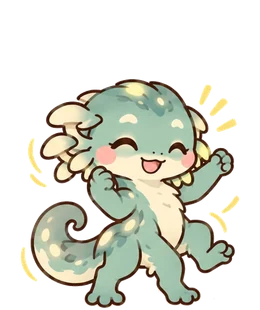
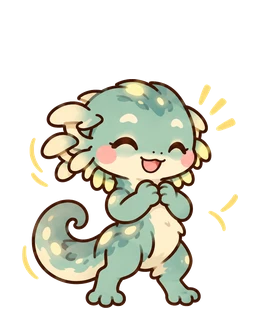
ほたるび・すなまる の 絵 5まい を 手あし の 数 を 直した 絵 に 差し替え

diff --git a/index.html b/index.html
@@ -5,10 +5,10 @@
 <link rel="icon" type="image/png" sizes="64x64" href="favicon.png?v=3">
 <link rel="apple-touch-icon" href="apple-touch-icon.png?v=3">
 <link rel="manifest" href="manifest.json">
-<script src="stickers/stickers.js?v=202610280821"></script>
-<script src="nakama/nakama.js?v=202610280821"></script>
-<script src="clock/clock.js?v=202610280821"></script>
-<script src="drill/patterns.js?v=202610280821"></script>
+<script src="stickers/stickers.js?v=202610280822"></script>
+<script src="nakama/nakama.js?v=202610280822"></script>
+<script src="clock/clock.js?v=202610280822"></script>
+<script src="drill/patterns.js?v=202610280822"></script>
 <meta name="apple-mobile-web-app-title" content="けいさん">
 <link rel="preconnect" href="https://fonts.googleapis.com">
 <link rel="preconnect" href="https://fonts.gstatic.com" crossorigin>
@@ -3466,7 +3466,7 @@ body.course .levels.nrange .lv{padding:3px 2px;font-size:12px}
   const nkSp = id => NK_LIST.find(x=>x.id===id) || NK_LIST[0];
   // ちいさい だんかいは すこし おおきく みせる（そだって いる かんじは のこす）
   const NK_SCALE = [1.9, 1.5, 1.15, 1, 1, 1];
-  const NK_IMG_VER = "7";   // なかまの え を さしかえたら ばんごうを あげる（ふるい え が のこらない ように）
+  const NK_IMG_VER = "8";   // なかまの え を さしかえたら ばんごうを あげる（ふるい え が のこらない ように）
   const nkImgSrc = (id, stage, mood) => `nakama/${id}/${NK_STAGES[stage]}_${stage===0 && mood==="s" ? "n" : mood}.webp?v=${NK_IMG_VER}`;
   const dkDate = k => { const [y,m,d]=k.split("-").map(Number); return new Date(y, m-1, d); };
   const dkAdd = (k, n) => { const d=dkDate(k); d.setDate(d.getDate()+n); return dayKey(d); };

diff --git a/CHANGELOG.md b/CHANGELOG.md
@@ -12,6 +12,9 @@
 ## 2026-10-28
 
 ### 修正（なかま）
+- **13:30** ほたるび（わかもの・おとな・おとしより のひる）、すなまる（わかもの・にこにこ／おとな・ひる）の絵で、手やあしの数がおかしかったのを直しました。
+
+### 修正（なかま）
 - **13:01** さらら（わかもの・ひる／おとな・あさ）、ほたるび（こども・ひる／わかもの・ひる）の絵で、手やあしの数がおかしかったのを直しました。
 
 ### 修正（なかま）
